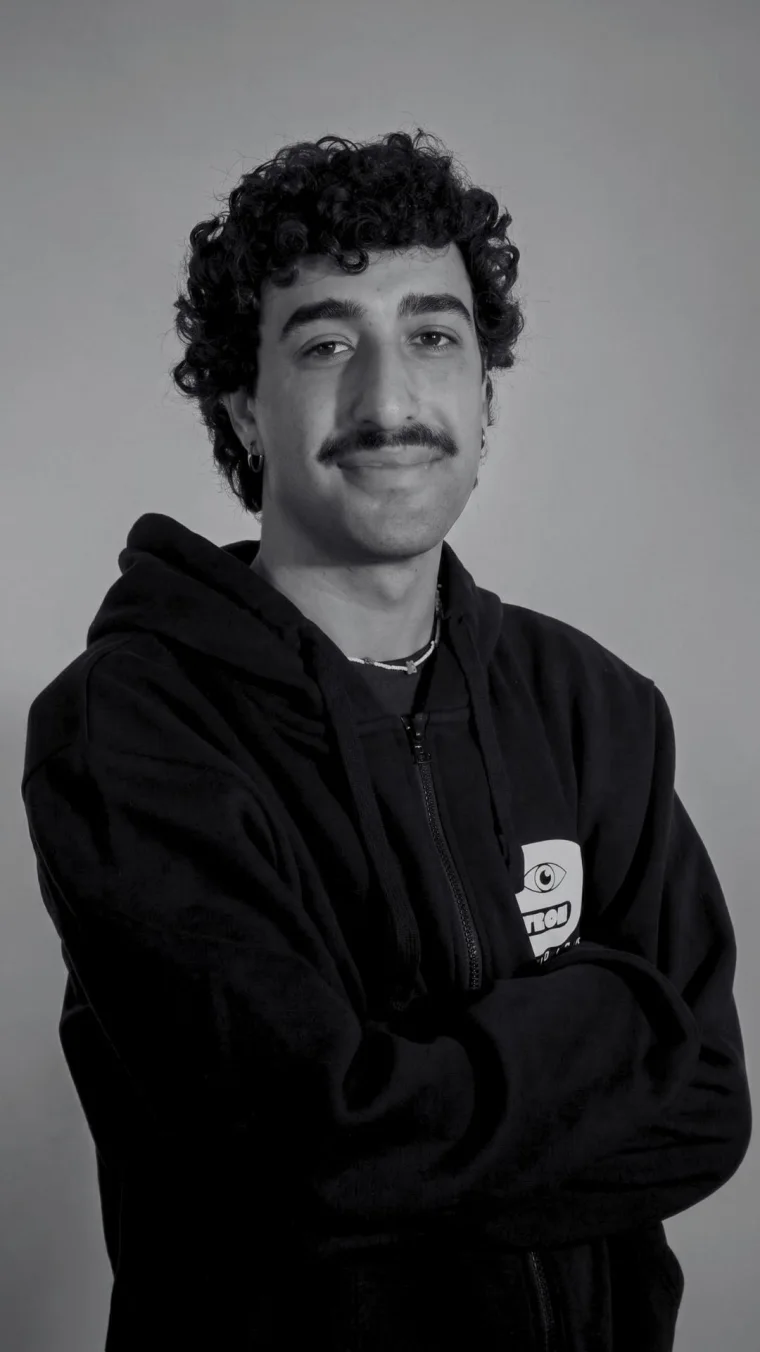
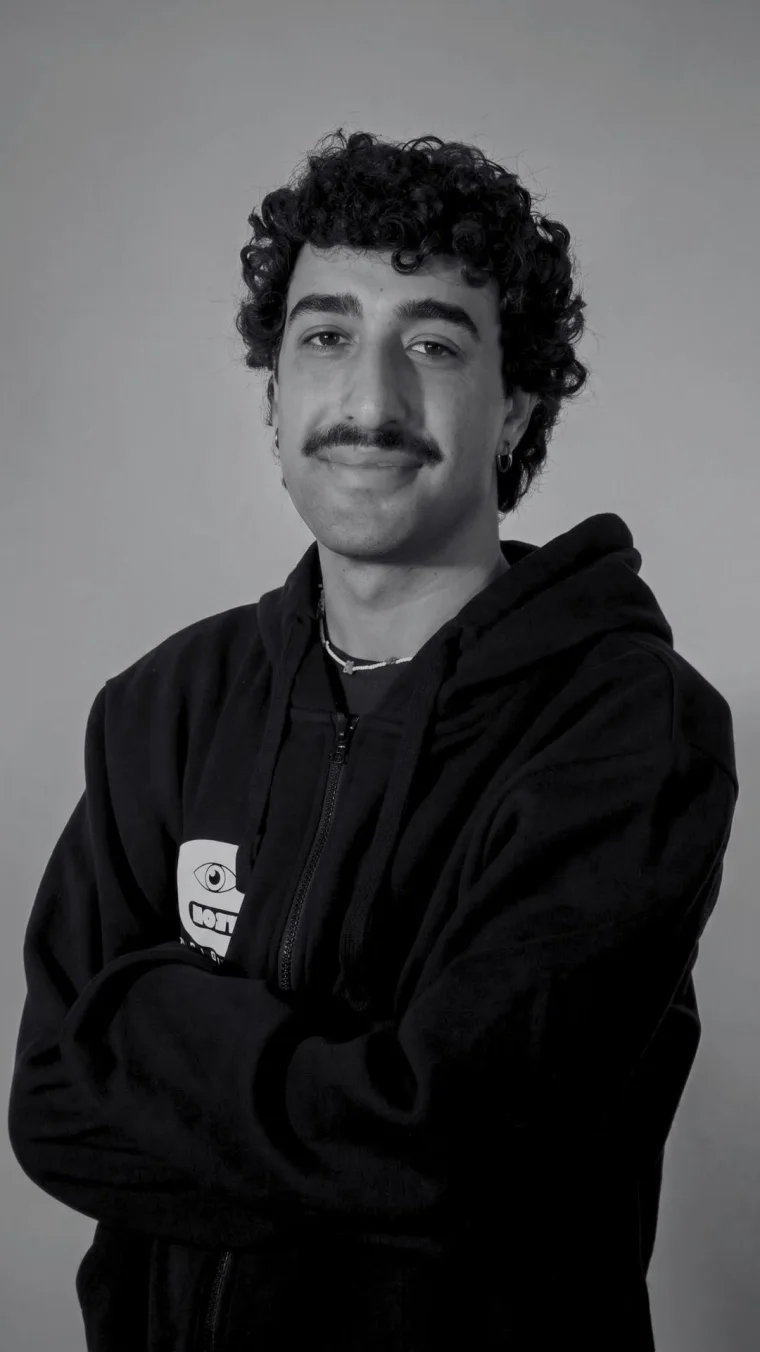
Attribuzioni citazioni, foto Davide specchiata, congiunzione Chi siamo
- Citazioni firmate: Seth Godin (manifesto Chi siamo), Henry Ford (Clienti),
  Drucker/Landor/Godin/Fishburne nelle card Servizi (le due frasi senza
  autore certo restano non attribuite).
- Foto di Davide specchiata orizzontalmente.
- Chi siamo: "ascoltiamo, analizziamo e proponiamo".

diff --git a/src/components/Servizi.jsx b/src/components/Servizi.jsx
@@ -73,11 +73,18 @@ export default function Servizi() {
                 </ul>
 
                 {/* Citazione di chiusura */}
-                <p className="mt-auto border-t border-white/10 pt-4 font-serif text-[1.25rem] font-semibold italic leading-snug text-white">
-                  <span className="mr-1 not-italic text-orange">“</span>
-                  {g.quote}
-                  <span className="ml-1 not-italic text-orange">”</span>
-                </p>
+                <figure className="mt-auto border-t border-white/10 pt-4">
+                  <blockquote className="font-serif text-[1.25rem] font-semibold italic leading-snug text-white">
+                    <span className="mr-1 not-italic text-orange">“</span>
+                    {g.quote}
+                    <span className="ml-1 not-italic text-orange">”</span>
+                  </blockquote>
+                  {g.author && (
+                    <figcaption className="mt-2 text-xs font-semibold uppercase tracking-[0.18em] text-white/40">
+                      — {g.author}
+                    </figcaption>
+                  )}
+                </figure>
               </article>
             </Reveal>
           ))}

diff --git a/src/components/CasiStudio.jsx b/src/components/CasiStudio.jsx
@@ -19,6 +19,11 @@ export default function CasiStudio() {
               <span className="text-orange">fermasse l’orologio per risparmiare tempo</span>.
             </h2>
           </Reveal>
+          <Reveal delay={0.12}>
+            <p className="mt-4 text-xs font-semibold uppercase tracking-[0.22em] text-white/40">
+              — Henry Ford
+            </p>
+          </Reveal>
           <Reveal delay={0.15}>
             <p className="mx-auto mt-6 max-w-xl text-lg text-white/60">
               Aziende che hanno scelto il nostro metodo.

diff --git a/src/components/ChiSiamo.jsx b/src/components/ChiSiamo.jsx
@@ -88,7 +88,7 @@ export default function ChiSiamo() {
               produce contenuti e affianca i brand come <span className="text-white">advisor</span>{' '}
               sulla loro identità. Grazie al nostro{' '}
               <span className="text-orange">Metodo Kaizen</span> non ci limitiamo a eseguire:{' '}
-              <span className="text-white">ascoltiamo, analizziamo, proponiamo</span>. Ogni cliente ha
+              <span className="text-white">ascoltiamo, analizziamo e proponiamo</span>. Ogni cliente ha
               una voce diversa da trovare e amplificare: il nostro compito è renderla riconoscibile,
               coerente e capace di durare oltre la singola campagna.
             </p>
@@ -109,6 +109,9 @@ export default function ChiSiamo() {
               ”
             </span>
           </blockquote>
+          <p className="mt-5 text-center text-xs font-semibold uppercase tracking-[0.22em] text-white/40 md:mt-6">
+            — Seth Godin
+          </p>
         </FadeIn>
       </div>
     </section>

diff --git a/src/content.js b/src/content.js
@@ -68,6 +68,7 @@ export const SERVICE_GROUPS = [
       { name: 'Consulenza strategica di comunicazione', desc: 'piani editoriali e calendari integrati multicanale' },
     ],
     quote: 'L’obiettivo è conoscere e comprendere il cliente così a fondo che il prodotto o il servizio si venda da solo.',
+    author: 'Peter Drucker',
   },
   {
     icon: 'creativity',
@@ -79,6 +80,7 @@ export const SERVICE_GROUPS = [
       { name: 'Fotografia e produzione creativa', desc: 'shooting di prodotto, still life e ritratti di brand' },
     ],
     quote: 'I prodotti si creano in fabbrica, i brand si creano nella mente.',
+    author: 'Walter Landor',
   },
   {
     icon: 'communication',
@@ -90,6 +92,7 @@ export const SERVICE_GROUPS = [
       { name: 'Employer branding', desc: 'comunicazione interna e recruiting marketing' },
     ],
     quote: 'Le persone non comprano prodotti e servizi, ma relazioni, storie e magia.',
+    author: 'Seth Godin',
   },
   {
     icon: 'social-media',
@@ -101,6 +104,7 @@ export const SERVICE_GROUPS = [
       { name: 'Influencer marketing', desc: 'selezione e gestione delle collaborazioni con i creator' },
     ],
     quote: 'Il miglior marketing è quello che non sembra marketing.',
+    author: 'Tom Fishburne',
   },
   {
     icon: 'ads',